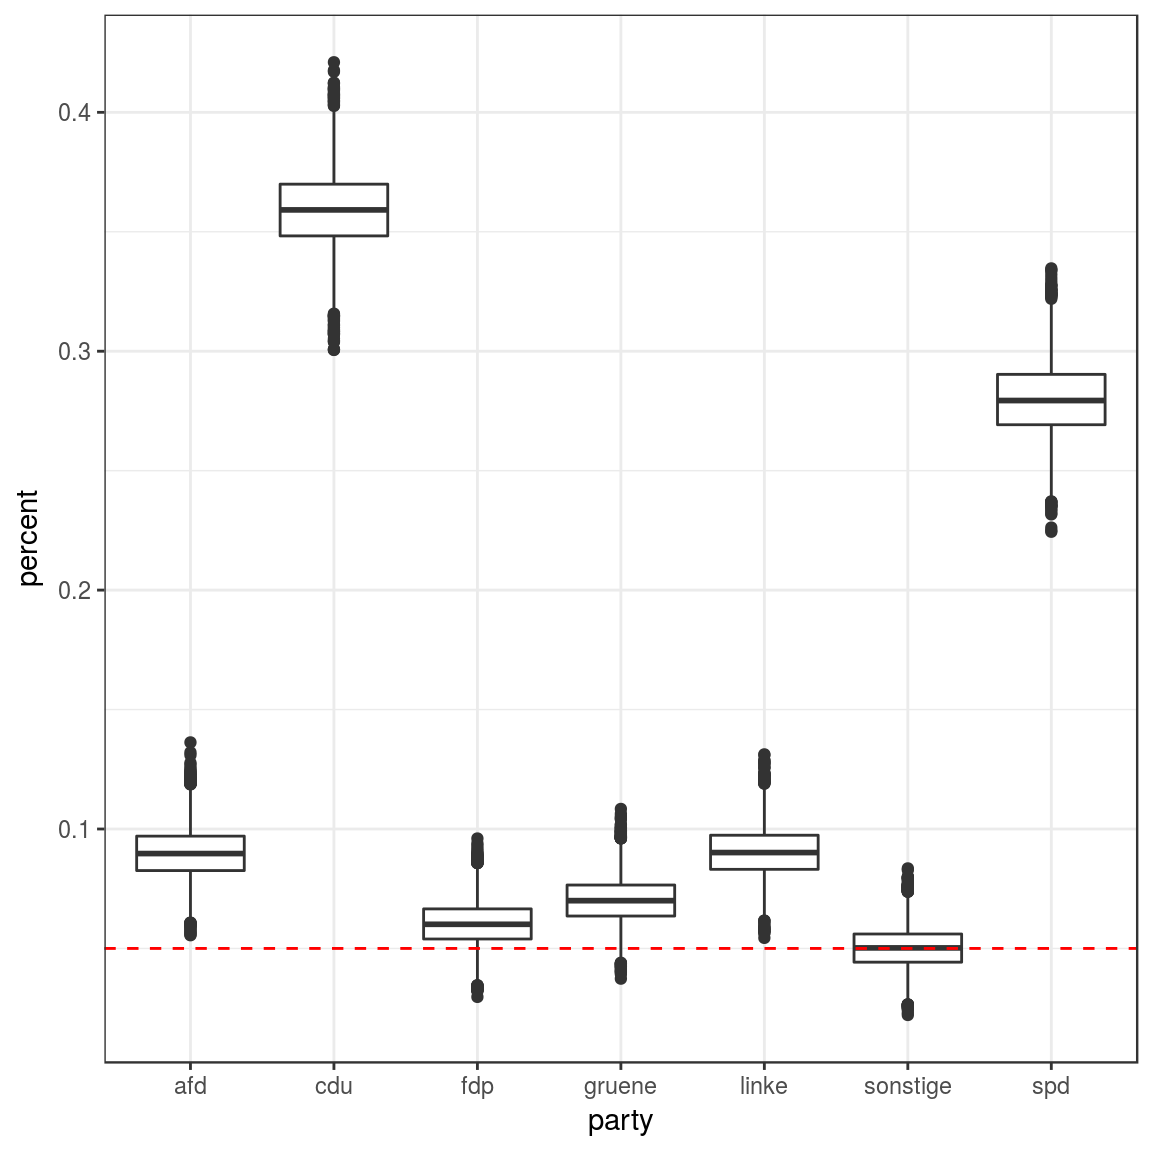
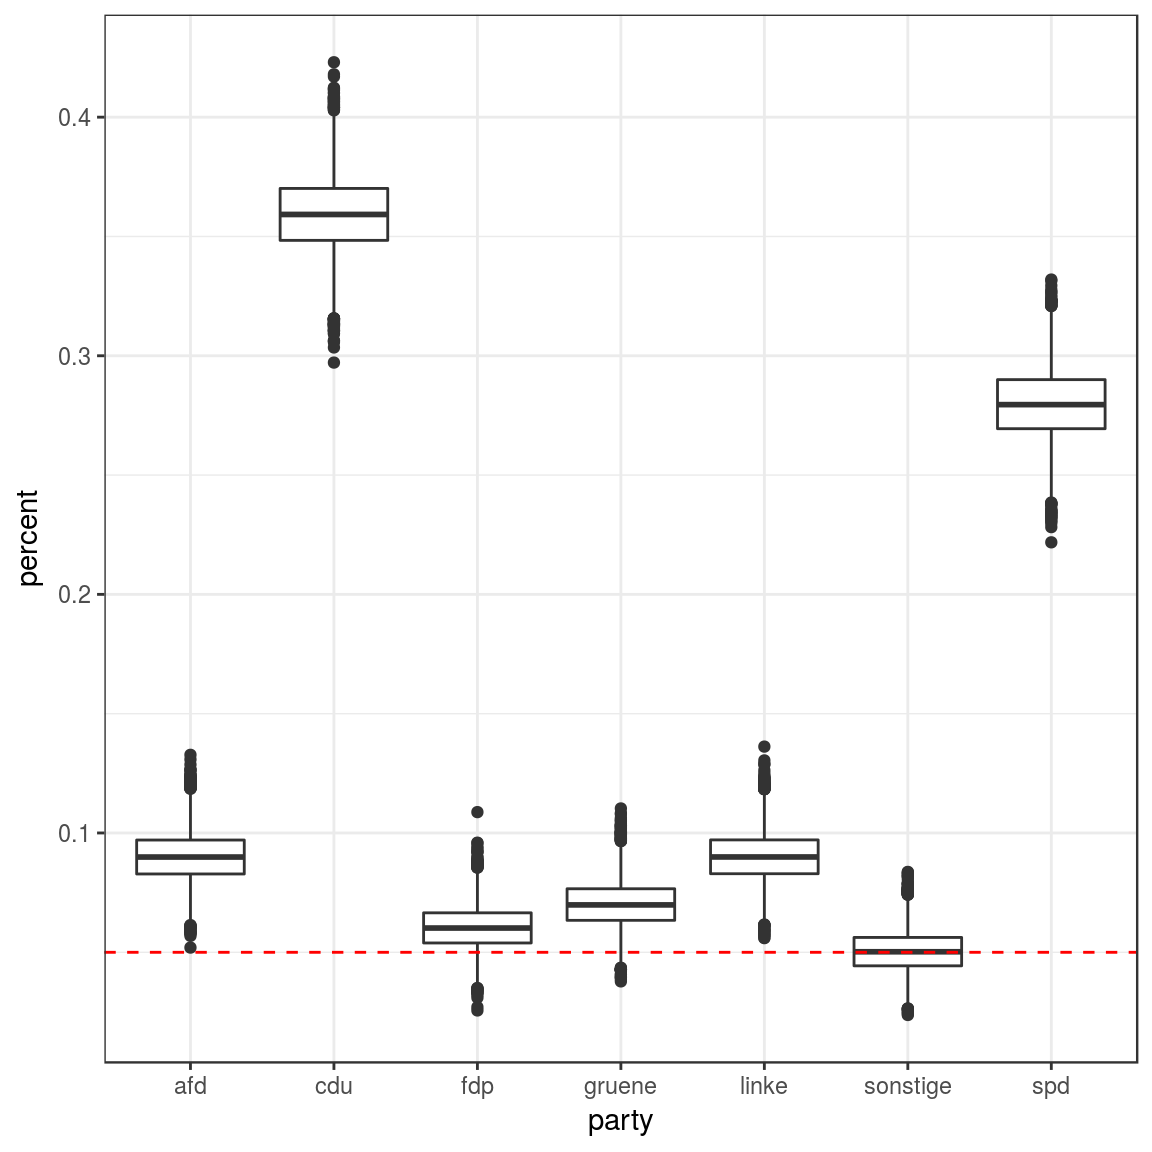
Docs updates

diff --git a/docs/articles/workflow.html b/docs/articles/workflow.html
@@ -167,16 +167,16 @@ elong %&gt;%<span class="st"> </span><span class="kw"><a href="http://dplyr.tidy
 <pre><code>## # A tibble: 10 x 7
 ##          cdu       spd     gruene        fdp      linke        afd
 ##        &lt;dbl&gt;     &lt;dbl&gt;      &lt;dbl&gt;      &lt;dbl&gt;      &lt;dbl&gt;      &lt;dbl&gt;
-##  1 0.3979608 0.2255926 0.08491517 0.07957471 0.09269530 0.08243976
-##  2 0.3694706 0.2302727 0.08768606 0.08047866 0.09470899 0.09368569
-##  3 0.3824447 0.2406632 0.07262956 0.08840946 0.08839605 0.08831287
-##  4 0.4065406 0.2389967 0.08394440 0.08010637 0.08472292 0.07794372
-##  5 0.3769338 0.2501274 0.08092129 0.07603288 0.09030345 0.09356045
-##  6 0.3719360 0.2377993 0.07983221 0.09625483 0.09717921 0.08373958
-##  7 0.3873286 0.2279009 0.08198373 0.07296912 0.09860772 0.09118372
-##  8 0.3775848 0.2528010 0.07498566 0.07592617 0.08743958 0.09201915
-##  9 0.3716958 0.2378670 0.09674702 0.08736743 0.07618287 0.09449841
-## 10 0.3726233 0.2382032 0.06912721 0.07845040 0.09991528 0.09190606
+##  1 0.3773390 0.2321521 0.08713804 0.08910126 0.08061610 0.09066144
+##  2 0.4039865 0.2364433 0.06983772 0.08780313 0.07786810 0.08271099
+##  3 0.3838594 0.2386591 0.08416813 0.08514491 0.08523960 0.08588796
+##  4 0.3591281 0.2476649 0.09168575 0.07828259 0.08774099 0.09401406
+##  5 0.3733009 0.2409025 0.06850616 0.07559855 0.09447356 0.10555641
+##  6 0.3833524 0.2310947 0.07978523 0.09114862 0.08254819 0.09237411
+##  7 0.3812002 0.2455285 0.08557966 0.07030664 0.08702885 0.08727058
+##  8 0.3855455 0.2298575 0.08999528 0.07282559 0.09571467 0.08416186
+##  9 0.3845429 0.2360033 0.08985384 0.08243788 0.08298606 0.08382170
+## 10 0.3906735 0.2436348 0.07146371 0.07081247 0.08952503 0.08978415
 ## # ... with 1 more variables: sonstige &lt;dbl&gt;</code></pre>
 </div>
 <div id="calculate-seat-distribution" class="section level2">
@@ -200,16 +200,16 @@ elong %&gt;%<span class="st"> </span><span class="kw"><a href="http://dplyr.tidy
 <pre><code>## # A tibble: 60 x 3
 ##      sim  party seats
 ##    &lt;int&gt;  &lt;chr&gt; &lt;int&gt;
-##  1     1    cdu   247
-##  2     1    spd   140
-##  3     1 gruene    53
-##  4     1    fdp    49
-##  5     1  linke    58
-##  6     1    afd    51
-##  7     2    cdu   231
-##  8     2    spd   144
-##  9     2 gruene    55
-## 10     2    fdp    50
+##  1     1    cdu   236
+##  2     1    spd   145
+##  3     1 gruene    54
+##  4     1    fdp    56
+##  5     1  linke    50
+##  6     1    afd    57
+##  7     2    cdu   252
+##  8     2    spd   147
+##  9     2 gruene    43
+## 10     2    fdp    55
 ## # ... with 50 more rows</code></pre>
 <p>In the above example, given the latest survey, CDU/CSU would have 225 seats in the first simulation, 223 seats in the second simulation, etc.</p>
 </div>
@@ -247,10 +247,10 @@ elong %&gt;%<span class="st"> </span><span class="kw"><a href="http://dplyr.tidy
 <pre><code>## # A tibble: 10 x 8
 ##      cdu cdu_fdp cdu_gruene cdu_fdp_gruene   spd linke_spd gruene_spd
 ##    &lt;lgl&gt;   &lt;lgl&gt;      &lt;lgl&gt;          &lt;lgl&gt; &lt;lgl&gt;     &lt;lgl&gt;      &lt;lgl&gt;
-##  1 FALSE   FALSE       TRUE           TRUE FALSE     FALSE      FALSE
-##  2 FALSE   FALSE      FALSE           TRUE FALSE     FALSE      FALSE
+##  1 FALSE   FALSE      FALSE           TRUE FALSE     FALSE      FALSE
+##  2 FALSE    TRUE      FALSE           TRUE FALSE     FALSE      FALSE
 ##  3 FALSE   FALSE      FALSE           TRUE FALSE     FALSE      FALSE
-##  4 FALSE   FALSE       TRUE           TRUE FALSE     FALSE      FALSE
+##  4 FALSE   FALSE      FALSE           TRUE FALSE     FALSE      FALSE
 ##  5 FALSE   FALSE      FALSE           TRUE FALSE     FALSE      FALSE
 ##  6 FALSE   FALSE      FALSE           TRUE FALSE     FALSE      FALSE
 ##  7 FALSE   FALSE      FALSE           TRUE FALSE     FALSE      FALSE
@@ -282,9 +282,9 @@ elong %&gt;%<span class="st"> </span><span class="kw"><a href="http://dplyr.tidy
 ##          coalition probability
 ##              &lt;chr&gt;       &lt;dbl&gt;
 ## 1              cdu           0
-## 2          cdu_fdp           0
-## 3       cdu_gruene          20
-## 4   cdu_fdp_gruene          80
+## 2          cdu_fdp          10
+## 3       cdu_gruene           0
+## 4   cdu_fdp_gruene          90
 ## 5              spd           0
 ## 6        linke_spd           0
 ## 7       gruene_spd           0

diff --git a/docs/index.html b/docs/index.html
@@ -13,6 +13,7 @@
 <script src="https://oss.maxcdn.com/html5shiv/3.7.3/html5shiv.min.js"></script>
 <script src="https://oss.maxcdn.com/respond/1.4.2/respond.min.js"></script>
 <![endif]-->
+<link rel='shortcut icon' type='image/x-icon' href='favicon.ico'>
 </head>
 <body>
     <div class="container template-vignette">
@@ -158,8 +159,8 @@ survey</code></pre></div>
 ##    institute      datum        coalition probability
 ##        &lt;chr&gt;     &lt;date&gt;            &lt;chr&gt;       &lt;dbl&gt;
 ## 1 allensbach 2017-07-18              cdu        0.00
-## 2 allensbach 2017-07-18          cdu_fdp       53.91
-## 3 allensbach 2017-07-18   cdu_fdp_gruene       46.09
+## 2 allensbach 2017-07-18          cdu_fdp       53.47
+## 3 allensbach 2017-07-18   cdu_fdp_gruene       46.53
 ## 4 allensbach 2017-07-18              spd        0.00
 ## 5 allensbach 2017-07-18        linke_spd        0.00
 ## 6 allensbach 2017-07-18 gruene_linke_spd        0.00</code></pre>

diff --git a/docs/articles/KOALA.html b/docs/articles/KOALA.html
@@ -211,7 +211,7 @@ Sonstige
 <li>Dies kann für potentielle Koalitionen eine Große Rolle spielen, insbesondere wenn eine oder mehrere Parteien nahe an der 5% Hürde liegen.</li>
 </ul>
 </li>
-<li>Ausreißer und Instituesbias:
+<li>Ausreißer und Institutsbias:
 <ul>
 <li>Einzelne Umfragen können von der tatsächlichen Stimmungslage abweichen</li>
 <li>Umfragen verschiedener Institute weisen teilweise starke Unterschiede auf</li>
@@ -336,7 +336,7 @@ Wahrscheinlichkeit
 Union
 </td>
 <td style="text-align:right;">
-0.39 %
+0.35 %
 </td>
 </tr>
 <tr>
@@ -344,7 +344,7 @@ Union
 Union - FDP
 </td>
 <td style="text-align:right;">
-27.24 %
+26.76 %
 </td>
 </tr>
 <tr>
@@ -360,7 +360,7 @@ Union - Grüne
 Union - FDP - Grüne
 </td>
 <td style="text-align:right;">
-0.03 %
+0.07 %
 </td>
 </tr>
 <tr>
@@ -384,7 +384,7 @@ SPD - Die Linke
 SPD - Die Linke - Grüne
 </td>
 <td style="text-align:right;">
-67.38 %
+67.47 %
 </td>
 </tr>
 </tbody>

diff --git a/docs/articles/index.html b/docs/articles/index.html
@@ -33,7 +33,7 @@
 <script src="https://oss.maxcdn.com/respond/1.4.2/respond.min.js"></script>
 <![endif]-->
 
-
+<link rel='shortcut icon' type='image/x-icon' href='../favicon.ico'>
   </head>
 
   <body>
@@ -96,7 +96,7 @@
       </header>
 
       <div class="page-header">
-  <h1>Articles <small>version&nbsp;0.4.0.903</small></h1>
+  <h1>Articles <small>version&nbsp;0.4.1.900</small></h1>
 </div>
 
 <div class="row">

diff --git a/docs/articles/diagnostic.html b/docs/articles/diagnostic.html
@@ -123,10 +123,10 @@ draws_long &lt;-<span class="st"> </span><span class="kw"><a href="http://www.rd
 ##      &lt;chr&gt;     &lt;dbl&gt;
 ## 1      afd    1.0000
 ## 2      cdu    1.0000
-## 3      fdp    0.8665
-## 4   gruene    0.9870
+## 3      fdp    0.8733
+## 4   gruene    0.9849
 ## 5    linke    1.0000
-## 6 sonstige    0.5106
+## 6 sonstige    0.5102
 ## 7      spd    1.0000</code></pre>
 </div>
   </div>

diff --git a/docs/reference/index.html b/docs/reference/index.html
@@ -33,7 +33,7 @@
 <script src="https://oss.maxcdn.com/respond/1.4.2/respond.min.js"></script>
 <![endif]-->
 
-
+<link rel='shortcut icon' type='image/x-icon' href='../favicon.ico'>
   </head>
 
   <body>
@@ -100,7 +100,7 @@
     <div class="page-header">
       <h1>
         Reference
-        <small>version&nbsp;0.4.0.903</small>
+        <small>version&nbsp;0.4.1.900</small>
       </h1>
     </div>
 

diff --git a/README.md b/README.md
@@ -94,8 +94,8 @@ survey %>% get_probabilities(nsim=1e4) %>% unnest()
     ##    institute      datum        coalition probability
     ##        <chr>     <date>            <chr>       <dbl>
     ## 1 allensbach 2017-07-18              cdu        0.00
-    ## 2 allensbach 2017-07-18          cdu_fdp       54.23
-    ## 3 allensbach 2017-07-18   cdu_fdp_gruene       45.77
+    ## 2 allensbach 2017-07-18          cdu_fdp       53.83
+    ## 3 allensbach 2017-07-18   cdu_fdp_gruene       46.17
     ## 4 allensbach 2017-07-18              spd        0.00
     ## 5 allensbach 2017-07-18        linke_spd        0.00
     ## 6 allensbach 2017-07-18 gruene_linke_spd        0.00
